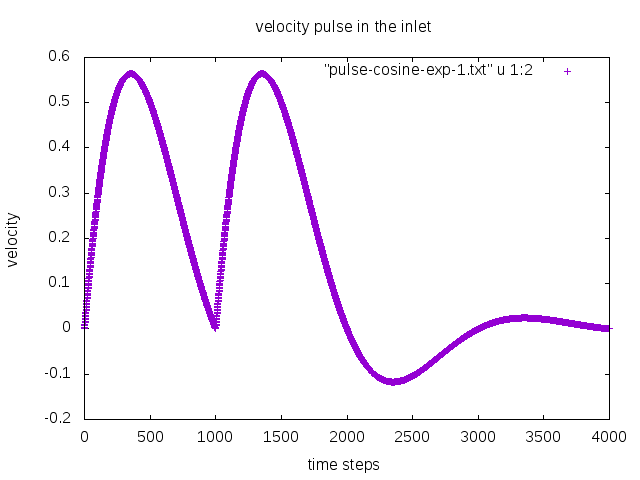
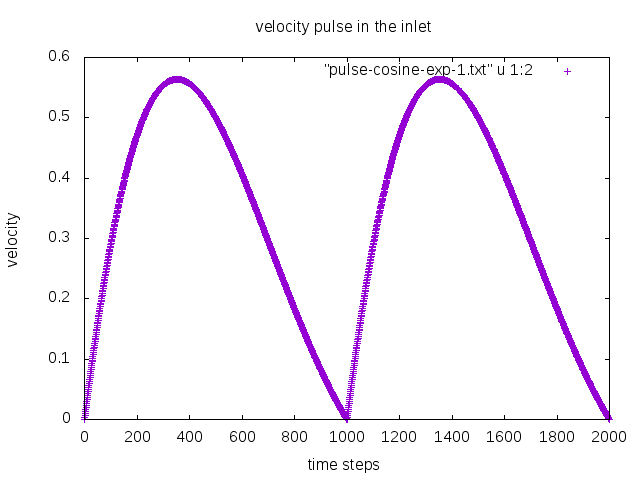
hola

diff --git a/week-10/pulse-cosine-sym/pulse-cosine-exp-2.c b/week-10/pulse-cosine-sym/pulse-cosine-exp-2.c
@@ -2,7 +2,7 @@
 #include <math.h>
 #define PIv acos(-1.0)
 #define MAX 2000
-#define MAX2 2000
+#define MAX2 1400
 
 FILE *fp;
 int    var, istep;
@@ -12,23 +12,17 @@ double freq = 4000.0;
 int period = 4000.0;
 double npul = 2;
 double tpul;
-double cycle = 2;
+double cycle = 3;
 int main() {
 
     for (istep = 0; istep < MAX2; istep=istep+1) {
     double taupul = 0.5;
     double omegapul = 1;
-        if (istep < MAX-1000){
-        cycle=2;
-        tpul = (istep-500) * cycle * PIv / (MAX);
+        if (istep < MAX-1300){
+        tpul = (istep-335) * cycle * PIv / (MAX);
         vel_u = (cos(omegapul * tpul) * exp (-tpul * taupul)) / npul;
-        //printf("%lf", vel_u);
-        fp  = fopen("pulse-cosine-exp-1.txt", "a");
-        fprintf(fp, "%d %lf\n", istep, vel_u);
-       // cycle=3;
-       // tpul = (istep-350) * cycle * PIv / (MAX);
-       // vel_u = (cos(omegapul * tpul) * exp (-tpul * taupul)) / npul;
-       // fprintf(fp, " %lf\n",  vel_u);
+        fp  = fopen("pulse-cosine-exp-2.txt", "a");
+        fprintf(fp, " %d %lf\n",  istep, vel_u);
        // omegapul = 1.1;
        // vel_u = (cos(omegapul * tpul) * exp (-tpul * taupul)) / npul;
        // fprintf(fp, " %lf",  vel_u);
@@ -41,16 +35,11 @@ int main() {
         fclose(fp);
         }
         else {
-        cycle=2;
-        tpul = (istep-MAX+500)* cycle *PIv / (MAX);
+        cycle=3;
+        tpul = (istep-MAX-335+1300) * cycle * PIv / (MAX);
         vel_u = (cos(omegapul * tpul) * exp (-tpul * taupul)) / npul;
-        fp  = fopen("pulse-cosine-exp-1.txt", "a");
-        fprintf(fp, "%d %lf\n", istep, vel_u);
-       // cycle=3;
-       // tpul = (istep-MAX+200) * cycle * PIv / (MAX);
-       // vel_u = (cos(omegapul * tpul) * exp (-tpul * taupul)) / npul;
-       // //fp  = fopen("pulse-cosine-exp-1.txt", "a");
-       // fprintf(fp, " %lf\n",  vel_u);
+        fp  = fopen("pulse-cosine-exp-2.txt", "a");
+        fprintf(fp, " %d %lf\n", istep,  vel_u);
         //omegapul = 1.1;
         //vel_u = (cos(omegapul * tpul) * exp (-tpul * taupul)) / npul;
         //fprintf(fp, " %lf",  vel_u);

diff --git a/week-10/pulse-cosine-sym/README.md b/week-10/pulse-cosine-sym/README.md
@@ -6,3 +6,4 @@
 
 ### 1 
 ![1](plot-1.png)
+![2](plot-2.png)
